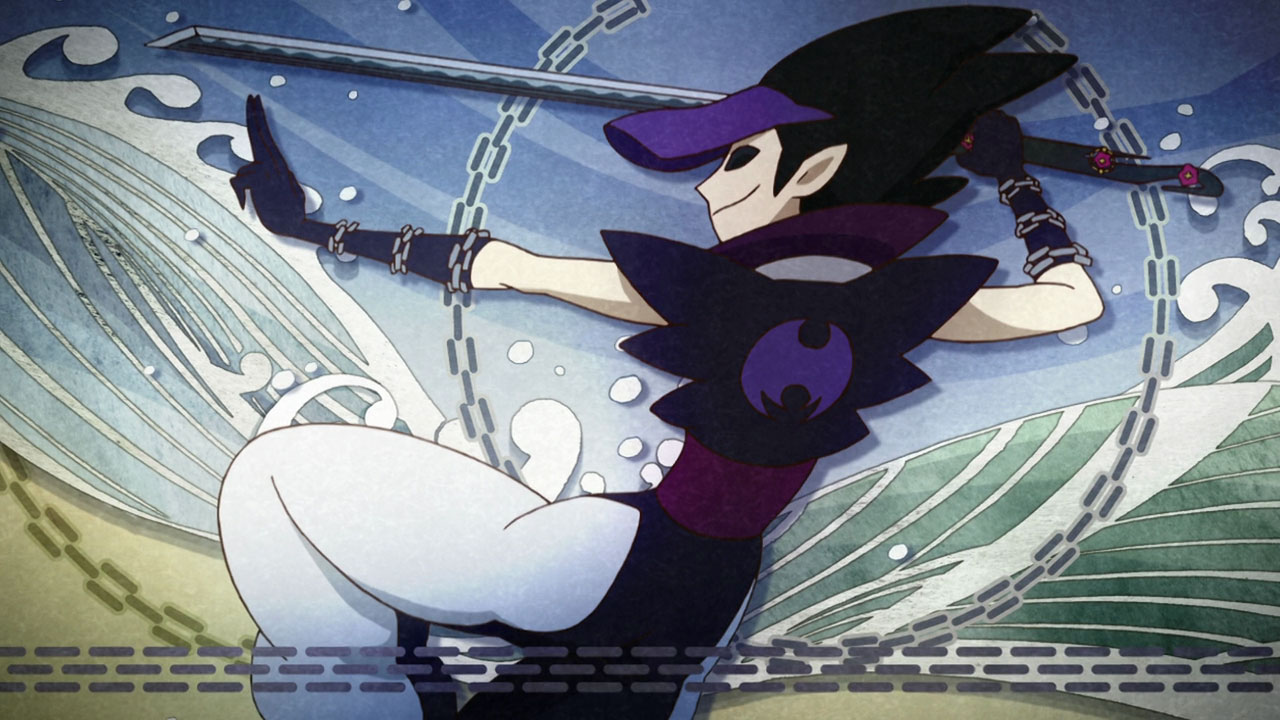
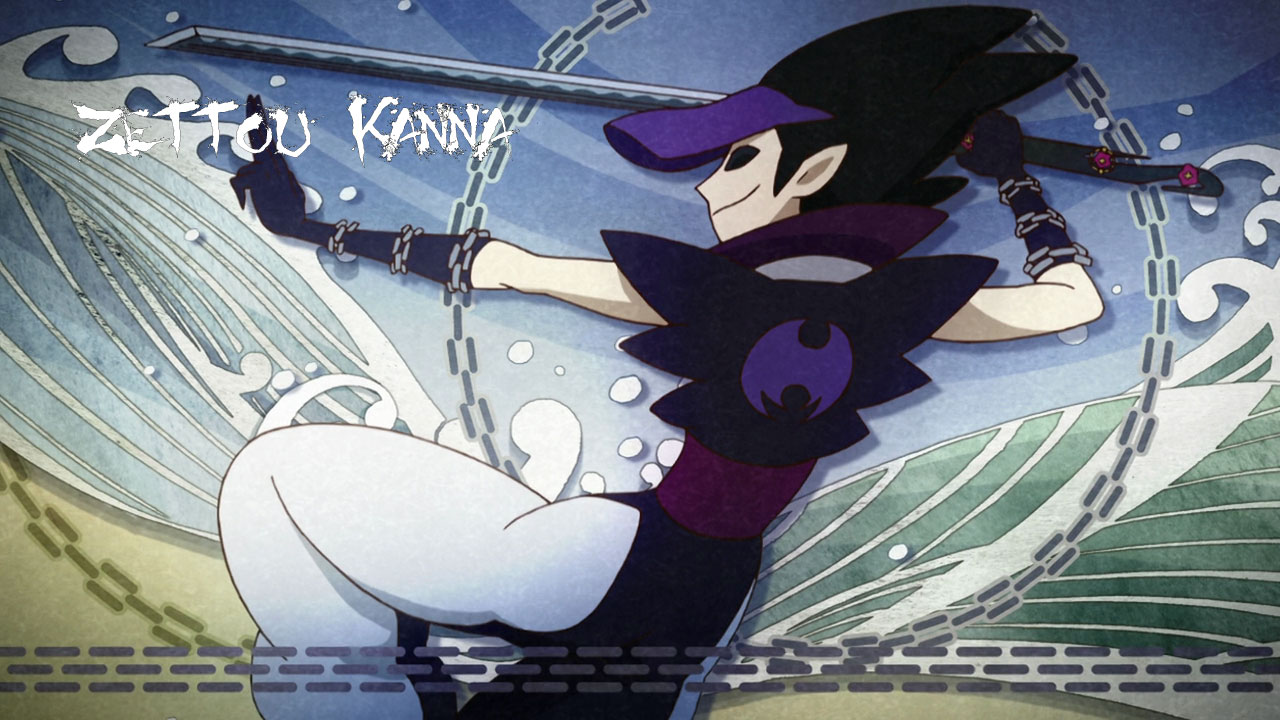
Updates
Image Titles with name of swords
Restored some values in fonts.css and javascript
Updated README.txt with a bug in the online preview

Changed region(s): [[0.0625, 0.1222, 0.4062, 0.2444]]

diff --git a/js/jquery.slides.js b/js/jquery.slides.js
@@ -1,4 +1,3 @@
-// Generated by CoffeeScript 1.6.1
 (function() {
 
   (function($, window, document) {
@@ -118,14 +117,14 @@
           "class": "slidesjs-next slidesjs-navigation icon-arrow-right2",
           href: "#",
           title: "Next",
-          text: ""
+          text: " Next"
         }).appendTo($element);
 
         prevButton = $("<a>", {
           "class": "slidesjs-previous slidesjs-navigation icon-arrow-left2",
           href: "#",
           title: "Previous",
-          text: ""
+          text: " Prev"
         }).appendTo($element);
 
       }
@@ -144,13 +143,13 @@
           "class": "slidesjs-play slidesjs-navigation icon-play2",
           href: "#",
           title: "Play",
-          text: ""
+          text: " Play"
         }).appendTo($element);
         stopButton = $("<a>", {
           "class": "slidesjs-stop slidesjs-navigation icon-pause",
           href: "#",
           title: "Stop",
-          text: ""
+          text: " Pause"
         }).appendTo($element);
         playButton.click(function(e) {
           e.preventDefault();

diff --git a/css/fonts.css b/css/fonts.css
@@ -1,8 +1,8 @@
 @font-face {
 	font-family: 'icomoon';
-	src:url('fonts/icomoon.eot?-w4frpd');
-	src:url('fonts/icomoon.eot?#iefix-w4frpd') format('embedded-opentype'),
-		url('fonts/icomoon.ttf?-w4frpd') format('truetype'),
+	src:url('../fonts/icomoon.eot?-w4frpd');
+	src:url('../fonts/icomoon.eot?#iefix-w4frpd') format('embedded-opentype'),
+		url('../fonts/icomoon.ttf?-w4frpd') format('truetype'),
 		url('../fonts/icomoon.woff?-w4frpd') format('woff'),
 		url('../fonts/icomoon.svg?-w4frpd#icomoon') format('svg');
 	font-weight: normal;

diff --git a/index.html b/index.html
@@ -57,7 +57,7 @@
 		        // [boolean] Start playing the slideshow on load.
 		      swap: true,
 		        // [boolean] show/hide stop and play buttons
-		      pauseOnHover: true,
+		      pauseOnHover: false,
 		        // [boolean] pause a playing slideshow on hover
 		      restartDelay: 2000
 		        // [number] restart delay on inactive slideshow
